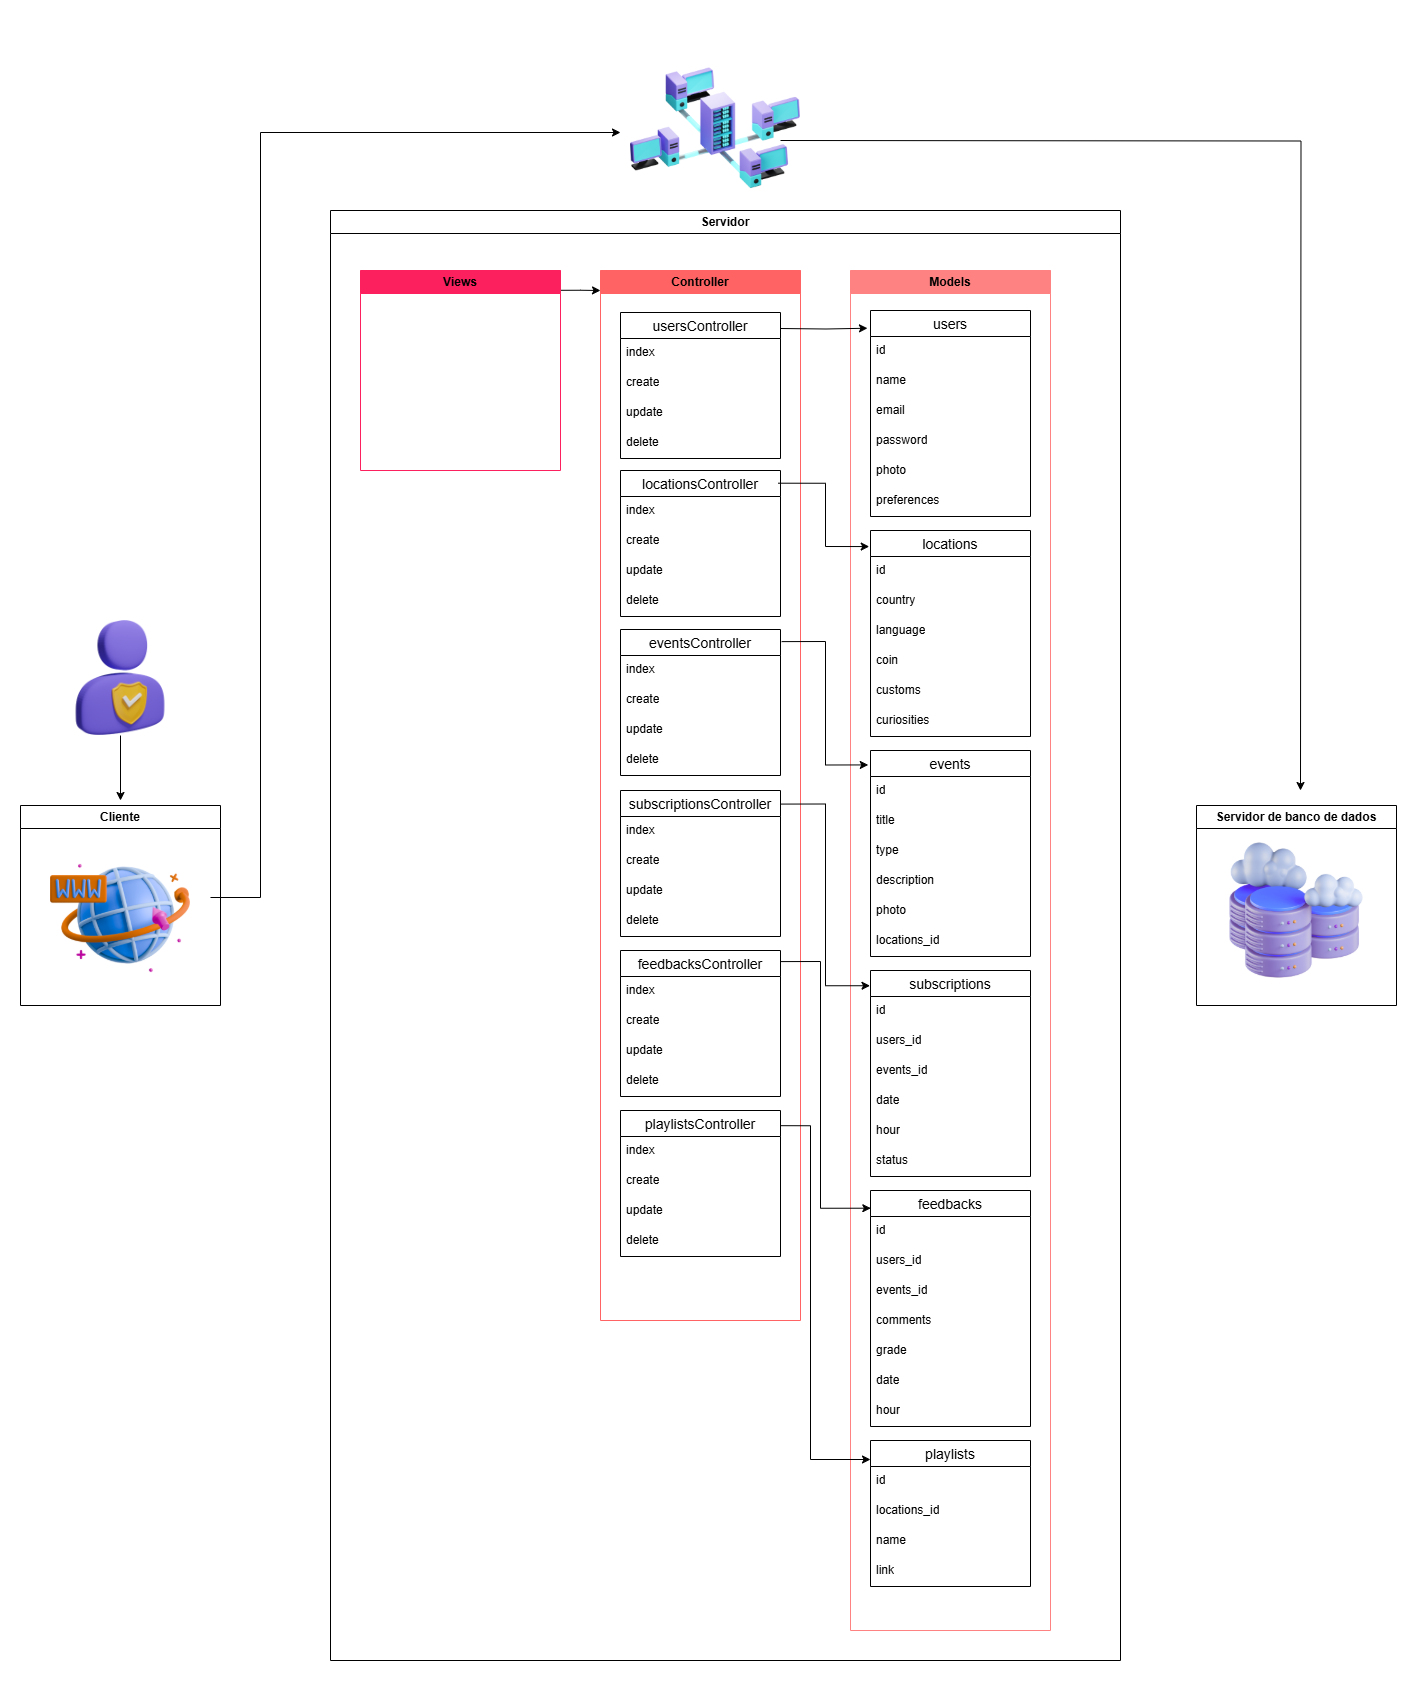
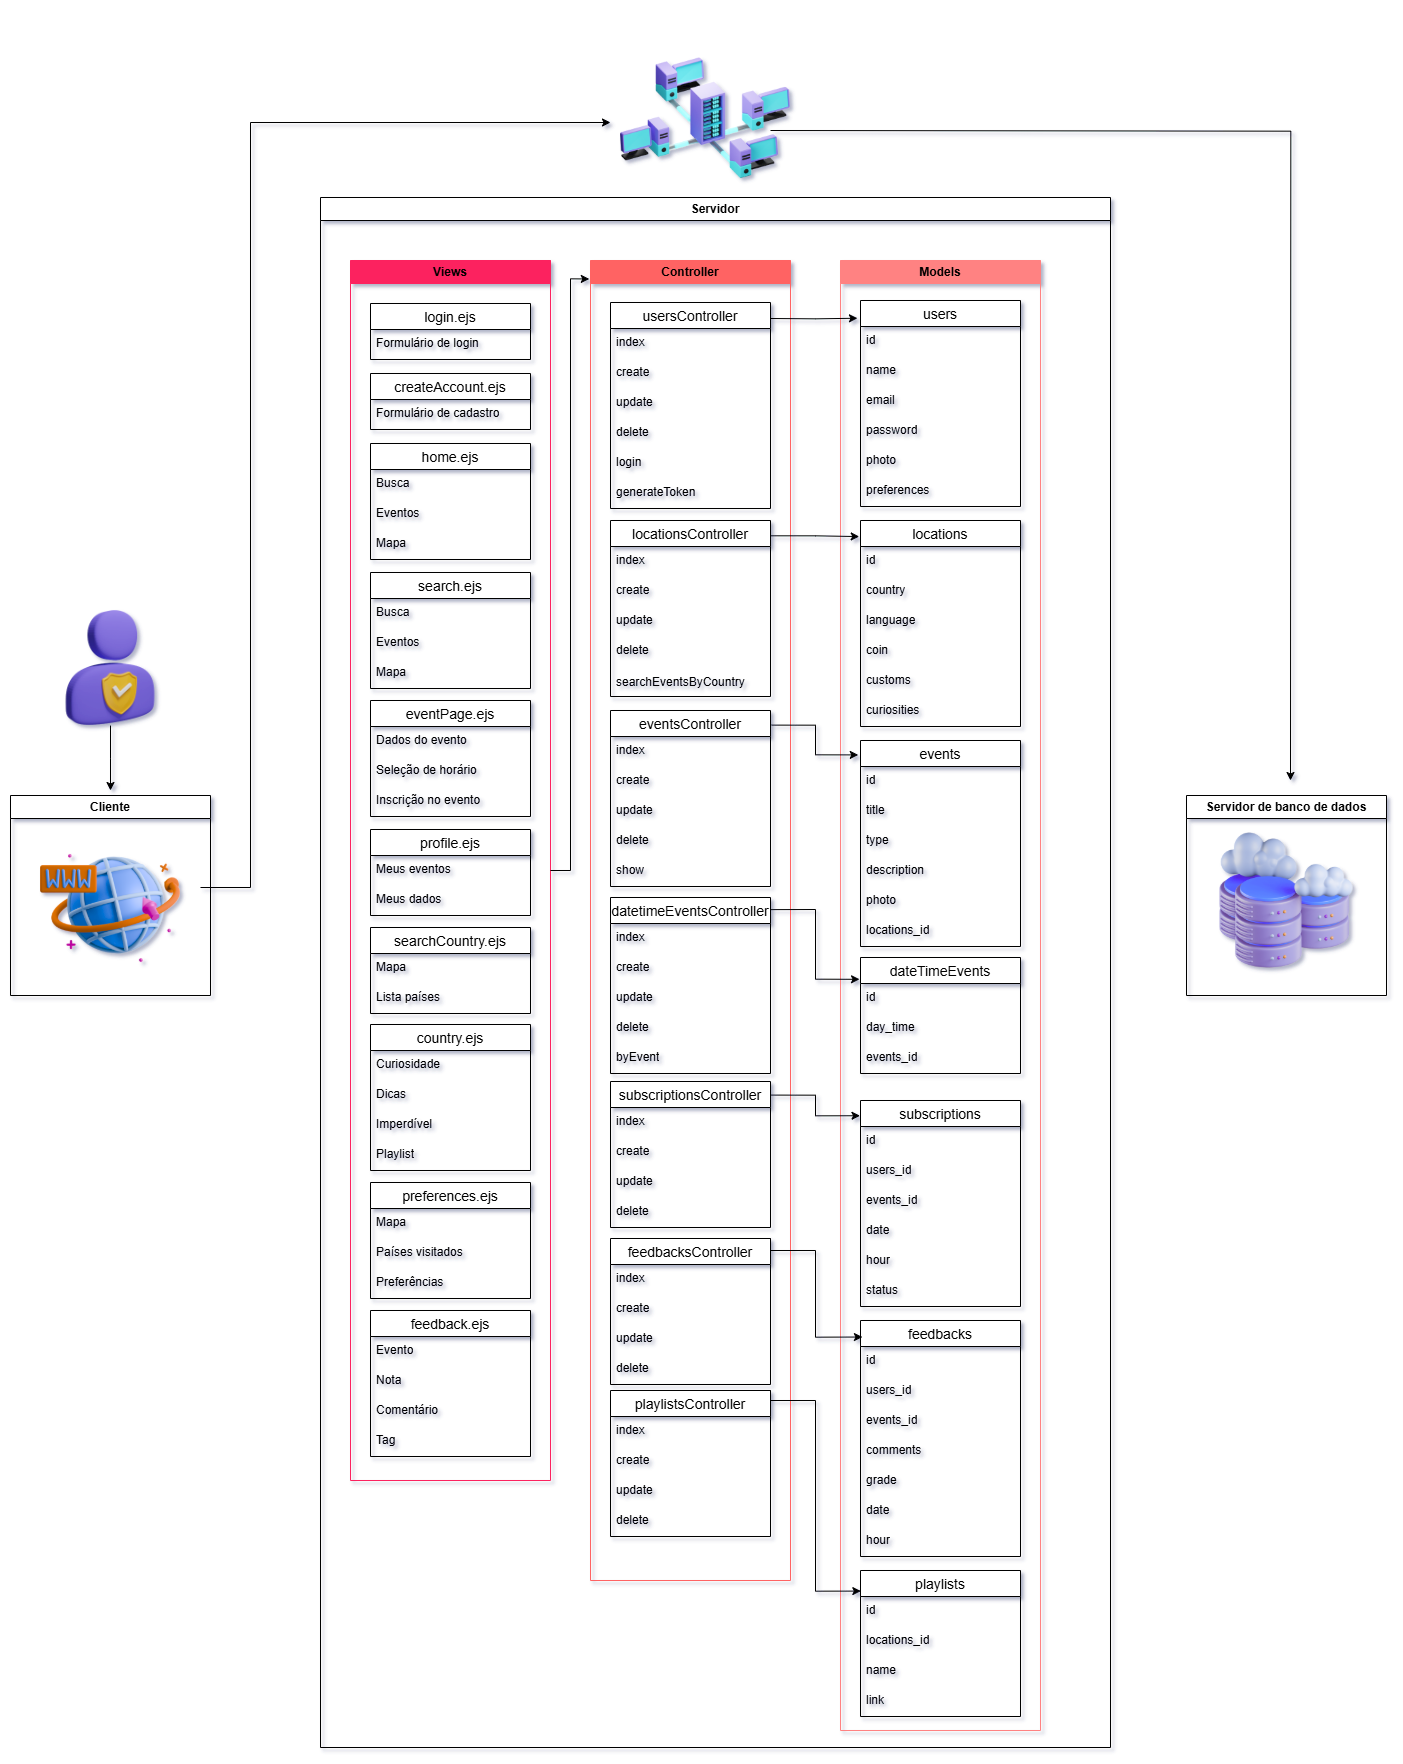
docs

Changed region(s): [[0.2145, 0.0309, 0.7969, 1.0], [0.0, 0.3403, 0.1839, 0.5877], [0.8582, 0.4331, 1.0, 0.5877]]

diff --git a/documentos/wad.md b/documentos/wad.md
@@ -378,15 +378,45 @@ O diagrama abaixo representa a arquitetura da aplicação, evidenciando a forma 
 </div>
 
 #### **View (Visualização)**
-A camada responsável pela interface com o usuário. É por meio dela que os usuários interagem com a aplicação. No momento, essa camada ainda será implementada, mas sua função será apresentar os dados processados pela Controller de forma clara e intuitiva.
+A camada de View é responsável pela interface com o usuário. No projeto Vibra, essa camada é composta por arquivos .ejs (Embedded JavaScript Templates), que renderizam dinamicamente os dados fornecidos pelos controllers.
+
+Cada página do sistema — como a listagem de eventos (events.ejs), o detalhamento de um evento (eventPage.ejs) ou o perfil do usuário (profile.ejs) — é construída com foco em responsividade e usabilidade móvel. As views recebem variáveis e objetos do back-end e os exibem com sintaxe EJS, proporcionando uma experiência fluida e personalizada ao usuário.
+> ℹ **Nota:** A relação entre os controllers e suas respectivas views (EJS) está detalhada na [seção 3.7 – Interface e Navegação](#37-interface-e-navegação).
+
 
 #### **Controller (Controle)**
-Atua como intermediária entre a View e o Model. Recebe as requisições feitas pelos usuários (por exemplo, criar uma conta, buscar eventos ou deixar feedback), processa essas ações e, se necessário, comunica-se com o Model para manipular os dados. No projeto, temos controllers específicos para cada entidade: `usersController`, `locationsController`, `eventsController`, `subscriptionsController`, `feedbacksController` e `playlistsController`.
+Atua como intermediária entre a **View** e o **Model**, sendo responsável por processar as requisições feitas pelos usuários (como criar conta, buscar eventos ou enviar feedback). Os controllers aplicam regras de negócio, validam entradas e, quando necessário, interagem com os models para acessar ou modificar os dados.
+
+No projeto **Vibra**, cada entidade possui um controller específico, o que garante uma organização modular e coesa da lógica da aplicação. São eles:
+
+- `usersController`
+- `locationsController`
+- `eventsController`
+- `subscriptionsController`
+- `feedbacksController`
+- `playlistsController`
+- `datetimeEventsController`
+
+| Controller                   | Responsabilidade Principal                               | Models Relacionados                  |
+|-----------------------------|----------------------------------------------------------|--------------------------------------|
+| `datetimeEventsController.js` | Controla os dias e horários disponíveis para os eventos  | `datetimeEventsModel`                |
+| `eventsController.js`        | Gerencia operações CRUD de eventos culturais             | `eventsModel`, `datetimeEventsModel` |
+| `feedbacksController.js`     | Controla o envio e listagem de feedbacks                 | `feedbacksModel`                     |
+| `locationsController.js`     | Gerencia dados de localização geográfica                 | `locationsModel`                     |
+| `playlistsController.js`     | Lista playlists por localização                          | `playlistsModel`                     |
+| `profileController.js`       | Exibe dados do usuário e eventos inscritos no perfil     | `usersModel`, `subscriptionsModel`   |
+| `subscriptionsController.js` | Administra inscrições em eventos                         | `subscriptionsModel`                 |
+| `usersController.js`         | Gerencia usuários e autenticação                         | `usersModel`                         |
+                                              
 
 #### **Model (Modelo)**
-A camada que lida diretamente com a lógica de negócios e com o banco de dados. É responsável por representar e gerenciar os dados da aplicação. Cada model representa uma tabela no banco de dados (ex: users, locations, events, etc), incluindo seus atributos e relacionamentos.
 
-Esse padrão permite que cada parte da aplicação seja modificada de forma independente. Assim, a arquitetura MVC torna o projeto Vibra mais modular, seguro e fácil de evoluir conforme novas funcionalidades forem implementadas.
+A camada responsável por lidar diretamente com a lógica de negócios e com o banco de dados. Cada **model** representa uma tabela no banco PostgreSQL (como `users`, `locations`, `events`, entre outras), incluindo seus atributos e relacionamentos. Além disso, encapsula as operações CRUD (Create, Read, Update, Delete) por meio de queries SQL estruturadas com a biblioteca `pg`.
+
+Esse padrão permite que cada parte da aplicação seja modificada de forma independente. Assim, a arquitetura **MVC** torna o projeto **Vibra** mais modular, seguro e fácil de evoluir conforme novas funcionalidades forem implementadas.
+
+> Para detalhes completos sobre os models e seus métodos, consulte a seção [**3.1.1 BD e Models**](#311-bd-e-models-semana-5).
+
 
 ### 3.3. Wireframes (Semana 03)
 
@@ -503,19 +533,30 @@ Nesta seção, é apresentada a estrutura de WebAPI desenvolvida para o projeto 
 
 Os **endpoints** são componentes essenciais de qualquer aplicação web moderna. Eles definem como a aplicação responde a solicitações HTTP (como GET, POST, PUT e DELETE), funcionando como pontos de acesso à lógica de negócios e ao banco de dados.
 
-No contexto do projeto **Vibra**, os endpoints foram implementados utilizando o framework **Express.js**, com estrutura baseada no padrão **MVC (Model-View-Controller)**. Cada rota é mapeada para uma ação específica em um controller, o que garante organização, modularidade e manutenibilidade ao sistema.
+No contexto do projeto **Vibra**, os endpoints foram implementados utilizando o framework **Express.js**, com estrutura baseada no padrão **MVC (Model-View-Controller)** Cada endpoint é mapeado para funções específicas em um controller, o que garante modularidade, escalabilidade e manutenibilidade.
 
-A WebAPI da aplicação foi pensada para permitir que usuários possam:
+Funcionalidades expostas pela API:
+- Cadastro e autenticação de usuários (JWT)
+- Criação, edição, exclusão e listagem de eventos
+- Inscrição em eventos e visualização de status
+- Envio de feedbacks
+- Consulta por playlists e localizações
 
-- Criar contas e realizar login (com autenticação via JWT)
-- Visualizar, criar, editar e deletar eventos
-- Realizar e consultar inscrições em eventos
+> Algumas rotas estão protegidas por autenticação via JWT, garantindo acesso apenas a usuários logados.
 
 Essa estrutura também facilita a integração com interfaces front-end e serviços externos, promovendo flexibilidade e escalabilidade à aplicação.
 
 A seguir, uma amostra das rotas implementadas e seus respectivos controllers:
 
 ---
+``` js
+GET    /                      → datetimeEventsController.index
+GET    /event/:eventId       → datetimeEventsController.byEvent
+POST   /                      → datetimeEventsController.create
+PUT    /update/:id           → datetimeEventsController.update
+DELETE /delete/:id           → datetimeEventsController.delete
+
+```
 
 ```js
 
@@ -524,6 +565,7 @@ GET    /events                  → eventsController.index // Lista todos os eve
 POST   /events                  → eventsController.create // Cria um novo evento
 PUT    /events/:id              → eventsController.update // Atualiza um evento
 DELETE /events/:id              → eventsController.delete // Exclui um evento
+GET    /events/event/:id        → eventsController.show // Exibe detalhes de um evento
 
 ```
 
@@ -556,12 +598,16 @@ DELETE /playlists/:id              → playlistsController.delete // Exclui uma 
 
 ```
 ``` js
+GET    /                    → profileController.getUserProfile     [auth]
+```
+``` js
 
 // ROTAS DE INSCRIÇÃO
 GET    /subscriptions                  → subscriptionsController.index // Lista todas as inscrições
 POST   /subscriptions                  → subscriptionsController.create // Cria uma nova inscrição
 PUT    /subscriptions/:id              → subscriptionsController.update // Atualiza uma inscrição
 DELETE /subscriptions/:id              → subscriptionsController.delete // Exclui uma incrição
+GET    /subscriptions/user/:id        → subscriptionsController.userSubscriptions // Lista todas as inscrições de um usuário
 
 ```
 ``` js
@@ -571,61 +617,74 @@ GET    /users                  → usersController.index // Lista todos os usuá
 POST   /users                  → usersController.create // Cria um novo usuário
 PUT    /users/:id              → usersController.update // Atualiza um usuário
 DELETE /users/:id              → usersController.delete // Exclui um usuários
+POST   /users/login            → usersController.login // Autentica um usuário
 
 ```
 Cada rota acima representa uma operação disponível para os usuários da aplicação.
 
-#### Controle de Eventos
-| Método | Rota | Controller & Função | Descrição |
-|--------|------|--------------------|------------|
-| `GET` | `/` | `events/Controller.index` | Lista todos os eventos |
-| `POST` | `/` | `events/Controller.create` | Cria um novo evento |
-| `PUT` | `/update/:id` | `events/Controller.update` | Atualiza um evento |
-| `DELETE` | `/delete/:id` | `events/Controller.delete` | Exclui um evento |
+#### Tabela de Rotas da WebAPI
 
-#### Controle de Feedbacks
-| Método | Rota | Controller & Função | Descrição |
-|--------|------|--------------------|------------|
-| `GET` | `/` | `feedbacks/Controller.index` | Lista todos os feedbacks |
-| `POST` | `/` | `feedbacks/Controller.create` | Cria um novo feedback |
-| `PUT` | `/update/:id` | `feedbacks/Controller.update` | Atualiza um feedback |
-| `DELETE` | `/delete/:id` | `feedbacks/Controller.delete` | Exclui um feedback |
-
-#### Controle de localizações
-| Método | Rota | Controller & Função | Descrição |
-|--------|------|--------------------|------------|
-| `GET` | `/` | `locations/Controller.index` | Lista todas as localizações |
-| `POST` | `/` | `locations/Controller.create` | Cria uma nova localização |
-| `PUT` | `/update/:id` | `locations/Controller.update` | Atualiza uma localização |
-| `DELETE` | `/delete/:id` | `locations/Controller.delete` | Exclui uma localização |
-
-#### Controle de Playlists
-| Método | Rota | Controller & Função | Descrição |
-|--------|------|--------------------|------------|
-| `GET` | `/` | `playlists/Controller.index` | Lista todas as playlists |
-| `POST` | `/` | `playlists/Controller.create` | Cria uma nova playlist |
-| `PUT` | `/update/:id` | `playlists/Controller.update` | Atualiza uma playlist |
-| `DELETE` | `/delete/:id` | `playlists/Controller.delete` | Exclui uma playlist |
-
-#### Controle de Inscrições
-| Método | Rota | Controller & Função | Descrição |
-|--------|------|--------------------|------------|
-| `GET` | `/` | `subscriptions/Controller.index` | Lista todas as inscrições |
-| `POST` | `/` | `subscriptions/Controller.create` | Cria uma nova inscrição |
-| `PUT` | `/update/:id` | `subscriptions/Controller.update` | Atualiza uma inscrição |
-| `DELETE` | `/delete/:id` | `subscriptions/Controller.delete` | Exclui uma inscrição |
-
-#### Controle de Usuários
-| Método | Rota | Controller & Função | Descrição |
-|--------|------|--------------------|------------|
-| `GET` | `/` | `users/Controller.index` | Lista todos os usuários |
-| `POST` | `/` | `users/Controller.create` | Cria um novo usuário |
-| `PUT` | `/update/:id` | `users/Controller.update` | Atualiza um usuário |
-| `DELETE` | `/delete/:id` | `users/Controller.delete` | Exclui um usuário |
-
+| Rota                         | Método | Controller                               | Retorno                 | Middleware     |
+|------------------------------|--------|------------------------------------------|-------------------------|----------------|
+| `/events`                    | GET    | `eventsController.index`                 | Lista de eventos        | -              |
+| `/events/:id`                | GET    | `eventsController.show`                  | Detalhes do evento      | -              |
+| `/events`                    | POST   | `eventsController.create`                | Novo evento criado      | `auth`         |
+| `/events/update/:id`         | PUT    | `eventsController.update`                | Evento atualizado       | `auth`         |
+| `/events/delete/:id`         | DELETE | `eventsController.delete`                | Confirmação de exclusão | `auth`         |
+| `/feedbacks`                 | GET    | `feedbacksController.index`              | Lista de feedbacks      | -              |
+| `/feedbacks`                 | POST   | `feedbacksController.create`             | Novo feedback criado    | `auth`         |
+| `/locations`                 | GET    | `locationsController.index`              | Lista de localizações   | -              |
+| `/playlists`                 | GET    | `playlistsController.index`              | Lista de playlists      | -              |
+| `/subscriptions`             | POST   | `subscriptionsController.create`         | Nova inscrição          | `auth`         |
+| `/subscriptions/user/:id`    | GET    | `subscriptionsController.findByUserId`   | Inscrições do usuário   | `auth`         |
+| `/users`                     | GET    | `usersController.index`                  | Lista de usuários       | `auth (admin)` |
+| `/users`                     | POST   | `usersController.create`                 | Criação de usuário      | -              |
+| `/users/login`               | POST   | `usersController.login`                  | Token JWT               | -              |
+| `/`                          | GET    | `profileController.getUserProfile`       | Perfil do usuário       | `auth`         |
+| `/datetime-events`           | GET    | `datetimeEventsController.index`         | Todas as datas/horários | -              |
+| `/datetime-events/event/:id` | GET    | `datetimeEventsController.byEvent`       | Datas de um evento      | -              |
+| `/datetime-events`           | POST   | `datetimeEventsController.create`        | Nova data criada        | `auth`         |
+| `/datetime-events/update/:id`| PUT    | `datetimeEventsController.update`        | Data atualizada         | `auth`         |
+| `/datetime-events/delete/:id`| DELETE | `datetimeEventsController.delete`        | Exclusão confirmada     | `auth`         |
 
 
 Esses endpoints são fundamentais para o funcionamento da aplicação Vibra, pois determinam como as interações com o sistema ocorrem. Além disso, com a autenticação por token, as rotas protegidas garantem que apenas usuários autenticados possam realizar ações sensíveis, como criar eventos ou se inscrever neles.
+
+#### **Autenticação (JWT)**
+
+A aplicação Vibra utiliza autenticação baseada em JWT (JSON Web Token) para garantir segurança no acesso às rotas protegidas da WebAPI. Essa abordagem permite validar a identidade dos usuários e controlar permissões de acesso conforme o tipo de operação requisitada.
+
+
+#### Visão Geral
+
+- **Tipo**: Autenticação stateless via token
+- **Tecnologia**: JWT (jsonwebtoken)
+- **Armazenamento do Token**: `localStorage` ou `sessionStorage` no front-end
+- **Formato do Token**: `Bearer <token>`, enviado no header `Authorization`
+- **Controle de Acesso**: Middleware de autenticação e verificação de role (`admin`, `user`)
+
+
+#### 🔄 Fluxo de Autenticação
+
+1. **Login** (`POST /users/login`)
+   - O usuário envia `email` e `senha`.
+   - Se as credenciais forem válidas:
+     - É gerado um token JWT com:
+       - `id` do usuário
+       - `role` do usuário
+     - O token é retornado como resposta.
+   
+2. **Uso do Token**
+   - O front-end salva o token e o envia no cabeçalho `Authorization`:
+     ```
+     Authorization: Bearer <token>
+     ```
+
+3. **Verificação nas Rotas Protegidas**
+   - O middleware `authenticateToken`:
+     - Verifica e decodifica o token.
+     - Injeta os dados do usuário em `req.user`.
+
 
 
 ### 3.7 Interface e Navegação (Semana 07)
